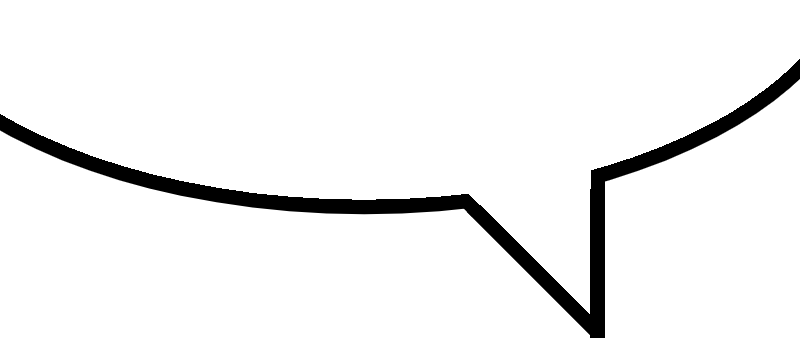
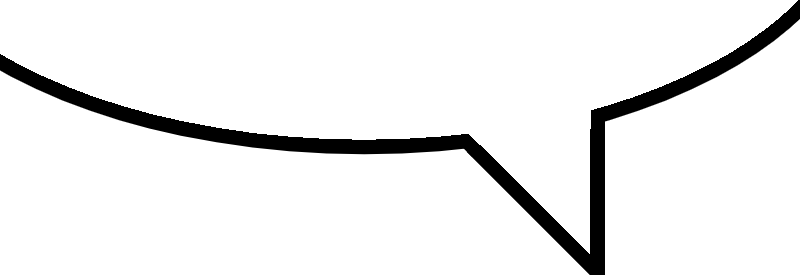
tweaks speech bubble command

Changed region(s): [[0.0, 0.2036, 0.6875, 0.7855], [0.7188, 0.0, 1.0, 0.5236], [0.6562, 0.8145, 0.7812, 1.0]]

diff --git a/Rosettes/Modules/Commands/Utility/ImageCommands.cs b/Rosettes/Modules/Commands/Utility/ImageCommands.cs
@@ -212,13 +212,13 @@ public static class BubbleImage
             string bubblePath = Path.Combine("Assets", "speech-bubble.png");
             var bubbleOverlay = await SixLabors.ImageSharp.Image.LoadAsync(bubblePath);
             
-            // make width 100% and height 15% of the image being overlaid onto.
+            // make width 100% and height 17.5% of the image being overlaid onto.
             int bubbleWidth = baseImage.Width;
-            int bubbleHeight = (int)(baseImage.Height * 0.15);
+            int bubbleHeight = (int)(baseImage.Height * 0.175);
             
             // don't let the height be too little or too much.
             if (bubbleHeight < bubbleWidth / 10) bubbleHeight = bubbleWidth / 10;
-            if (bubbleHeight > baseImage.Height / 5) bubbleHeight = baseImage.Height / 5;
+            if (bubbleHeight > baseImage.Height / 4) bubbleHeight = baseImage.Height / 4;
             bubbleOverlay.Mutate(x => x.Resize(bubbleWidth, bubbleHeight));
 
             // vertical pos, depends on if 'down' is set.
